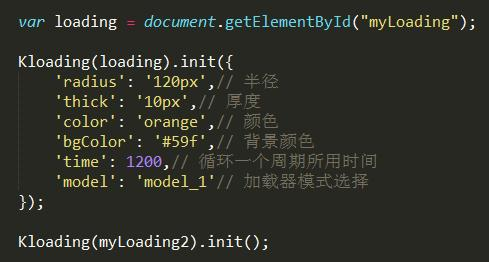
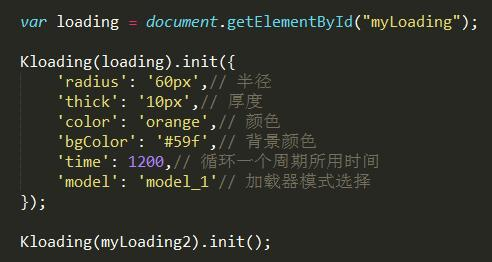
修改加载图bug

diff --git a/KylinWidgets/kloading（加载图）/kloading.js b/KylinWidgets/kloading（加载图）/kloading.js
@@ -68,8 +68,10 @@ function Kloading(bar){
 	function init(obj){
 		var obj = obj || {};
 
-		var bwidth = obj.radius || '100px';
-		var bheight = obj.radius || '100px';
+		var bwidth = obj.radius || '50px';
+        bwidth = parseInt(bwidth) * 2 + 'px';
+		var bheight = obj.radius || '50px';
+        bheight = parseInt(bheight) * 2 + 'px';
         var thick = obj.thick || '5px';
         var color = obj.color || '#59f';
         var bgColor = obj.bgColor || '#fff';

diff --git a/KylinWidgets/kloading（加载图）/test.html b/KylinWidgets/kloading（加载图）/test.html
@@ -49,7 +49,7 @@
 	var loading = document.getElementById("myLoading");
 
 	Kloading(loading).init({
-		'radius': '120px',// 半径
+		'radius': '60px',// 半径
 		'thick': '10px',// 厚度
 		'color': 'orange',// 颜色
 		'bgColor': '#59f',// 背景颜色
